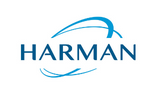
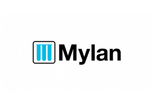
Changes in Product Section

Changed region(s): [[0.1316, 0.1429, 0.8947, 0.7429]]

diff --git a/index.html b/index.html
@@ -46,11 +46,11 @@
     <section id="feature" class="section-p1">
         <div class="fe-box">
             <img src="img/features/f1.png" alt="">
-            <h6>Harman Limited</h6>
+            <h6>Mylan Limited</h6>
         </div>
         <div class="fe-box">
             <img src="img/features/f2.png" alt="">
-            <h6>Cipla Limited</h6>
+            <h6>Endress Hauser Limited</h6>
         </div>
         <div class="fe-box">
             <img src="img/features/f3.png" alt="">
@@ -73,9 +73,9 @@
 
     <section id="product1" class="section-p1">
         <h2>Featured Products</h2>
-        <p>New Modern Arrivals</p>
+        <p>Most Frequent Bought</p>
         <div class="pro-container">
-            <div class="pro">
+            <div class="pro">   
                 <img src="img/Stamp/001.png" alt="">
                 <div class="des">
                     <p class="ProdStamp">PreInk Stamp</p>
